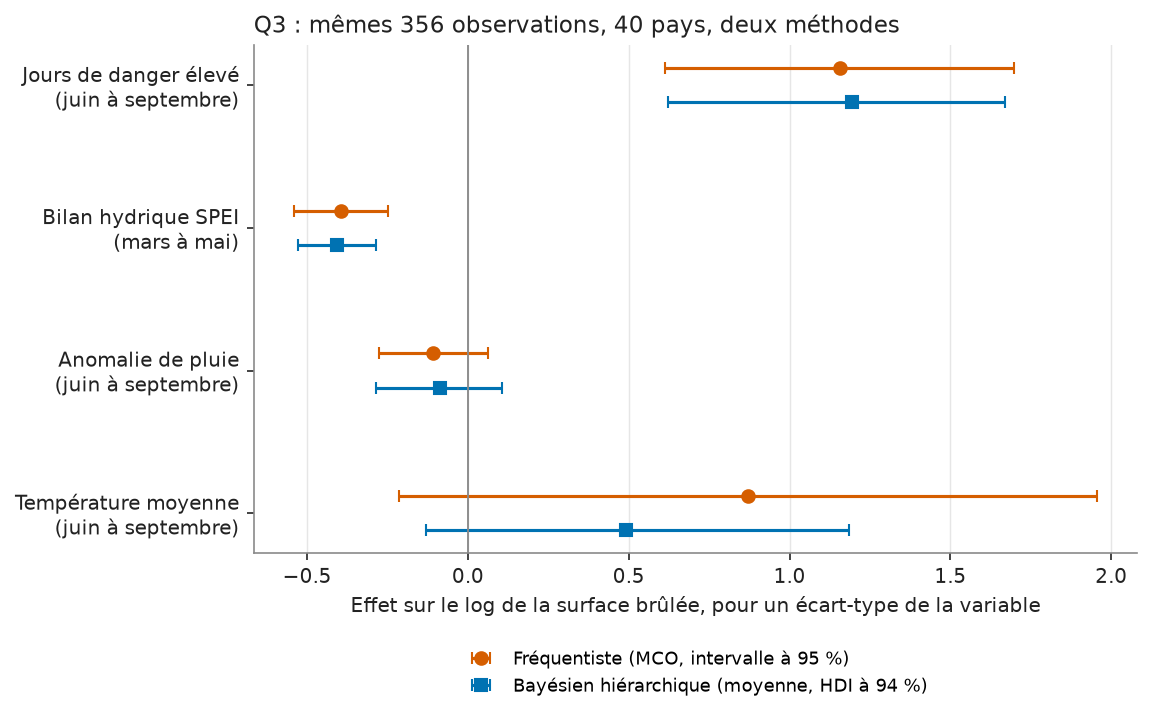
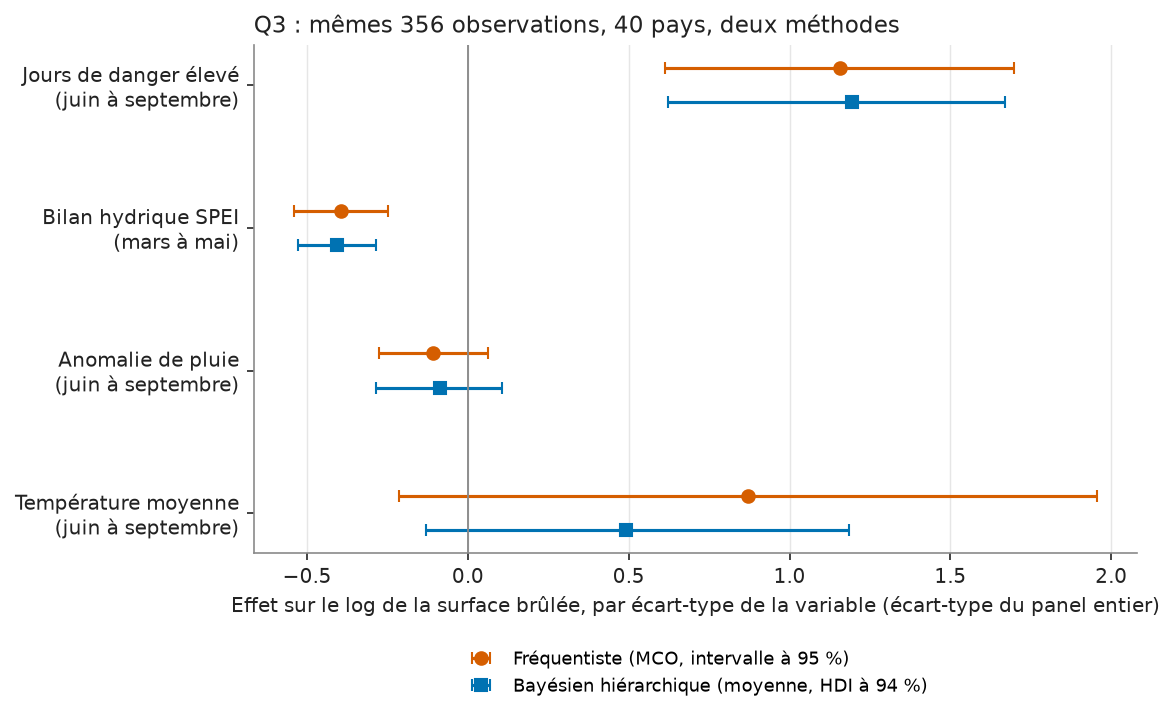
fix(docs): name the standardisation unit on the Q3 coefficient axis

diff --git a/scripts/model_figures.py b/scripts/model_figures.py
@@ -140,7 +140,7 @@ def q3_coefficients(model_out: Path) -> Path:
                 fmt="s", color=BLUE, capsize=3, label="Bayésien hiérarchique (moyenne, HDI à 94 %)")
     ax.axvline(0, color=GREY, lw=0.9)
     ax.set_yticks(y, labels=pop["label"])
-    ax.set_xlabel("Effet sur le log de la surface brûlée, pour un écart-type de la variable")
+    ax.set_xlabel("Effet sur le log de la surface brûlée, par écart-type de la variable (écart-type du panel entier)")
     ax.legend(loc="upper center", bbox_to_anchor=(0.5, -0.16), ncol=1, fontsize=8.5)
     ax.set_title("Q3 : mêmes 356 observations, 40 pays, deux méthodes", loc="left", fontsize=11, color=INK)
     ax.grid(axis="y", visible=False)
